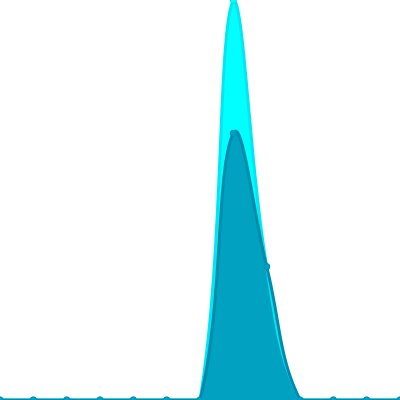
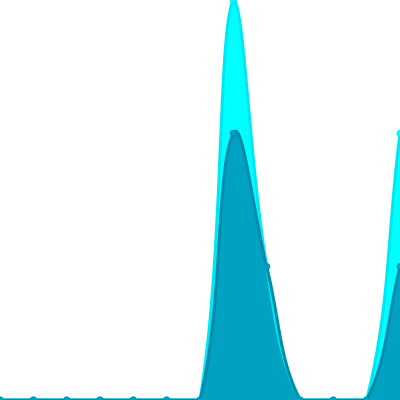
Update views

Changed region(s): [[0.9, 0.3, 1.0, 1.0]]

diff --git a/readme/954739905/year.md b/readme/954739905/year.md
@@ -23,10 +23,10 @@
 			<code>2025/8/1</code>
 		</td>
 		<td>
-			<code>0</code>
+			<code>1</code>
 		</td>
 		<td>
-			<code>0</code>
+			<code>2</code>
 		</td>
 	</tr>
 	<tr>
@@ -164,7 +164,7 @@
 </table>
 
 </details>
-<small><i>Last updated on 2025/8/27 6:17 AM UTC</i></small>
+<small><i>Last updated on 2025/8/27 12:23 PM UTC</i></small>
 
 ## ✂Copy and 📋 Paste
 ### SVG Badge

diff --git a/README.md b/README.md
@@ -37,7 +37,7 @@ The project created and maintained by [gayanvoice](https://github.com/gayanvoice
 	</tr>
 </table>
 
-<small><i>Last updated on 2025/8/27 6:17 AM UTC</i></small>
+<small><i>Last updated on 2025/8/27 12:24 PM UTC</i></small>
 
 ## ✂Copy and 📋 Paste
 ### Total Views Badge
